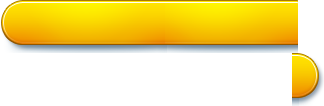
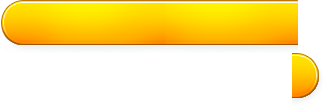
* Шапка переверстана * Цвета CSS заменены на зеленые оттенки

Changed region(s): [[0.0309, 0.3679, 0.9259, 0.5094], [0.8951, 0.6509, 1.0, 0.9906]]

diff --git a/styles/style.css b/styles/style.css
@@ -93,7 +93,8 @@ body#home #header .container { height: 384px; }
 		#breadcrumbs-content a { color: #535353; }
 			#breadcrumbs-content a:hover, p.tagline a:hover { text-decoration: none; color: #000000; }
 	
-	#top-box p { color: #ffffff; text-shadow: 1px 1px 1px #144b83; font-size: 14px; line-height: 26px; }
+	#top-box p { color: #7bc53b; font-size: 26px; font-family: "Minion Pro Med", "minion-pro-1", "minion-pro-2", "Times New Roman", serif;}
+    #top-box p strong { color: #000; font-weight: bold; }
 	#top-box a.featured-button { display: block; float: right; height: 53px; line-height: 45px; padding-right: 32px; background: url(images/button_bg.png) no-repeat bottom right; font-size: 18px; font-family: Georgia, serif; color: #925600; margin: 8px 3px 0px 0px; text-shadow: 1px 1px 1px #fadb82; }
 	#top-box a.featured-button:hover { text-decoration: none; }
 		#top-box a.featured-button span { display: block; background: url(images/button_bg.png) no-repeat top left; padding-left: 27px; height: 53px; }
@@ -224,9 +225,9 @@ body#home #sidebar { padding-top: 65px; }
 		
 		#sidebar .auth-form {}
 			.auth-form .top-auth-form {
-			border-left: 1px #e0e7eb solid; 
-			border-top: 1px #e0e7eb solid; 
-			border-right: 1px #e0e7eb solid; 
+			border-left: 1px #e0ebe1 solid; 
+			border-top: 1px #e0ebe1 solid; 
+			border-right: 1px #e0ebe1 solid; 
 			background-color: #fefefe;
 			border-radius:3px 3px 0px 0px;
 			-webkit-border-radius:3px 3px 0px 0px;
@@ -241,10 +242,10 @@ body#home #sidebar { padding-top: 65px; }
 			.auth-form .top-auth-form .forgot-password {float: right; color:#c1c1c1; font-size: 80%;}
 			.auth-form .bottom-auth-form {
 			border-left: 1px #e0e7eb solid;
-			border-bottom: 1px #e0e7eb solid;
+			border-bottom: 1px #e0ebe1 solid;
 			border-right: 1px #e0e7eb solid;
 			border-top: 1px #dde0e8 solid;
-			background-color: #f0f6f7;
+			background-color: #f0f7f1;
 			border-radius: 0px 0px 3px 3px;
 			-webkit-border-radius:0px 0px 3px 3px;
 			-moz-border-radius:0px 0px 3px 3px;
@@ -255,7 +256,7 @@ body#home #sidebar { padding-top: 65px; }
 			height:20px;
 			}
 			.auth-form .remember-me {colot: #c1c1c1; font-size:80%;}
-			.auth-form .primary {float: right; color:#ffffff !important;}
+			.auth-form .btn {float: right; color:#ffffff !important;}
 			
 /*------------------------------------------------*/
 /*---------------------[FOOTER]-------------------*/
@@ -282,8 +283,8 @@ body#home #sidebar { padding-top: 65px; }
             /*--------------------[FORMS]---------------------*/
             /*------------------------------------------------*/
 			.school-class-widget {
-				background-color: #f0f6f7;
-				border: 1px #e0e7eb solid;
+				background-color: #f0f7f1;
+				border: 1px #e0ebe1 solid;
 				padding: 10px 20px;
 				margin: 10px 0px;
 			}
@@ -292,27 +293,27 @@ body#home #sidebar { padding-top: 65px; }
                 margin-right: 40px;
 			}
 			
-            .school-class-widget .primary {
+            .school-class-widget .btn {
 				width: 50px;
 				float: right;
 			}
                         
             .date-widget {
-				background-color: #f0f6f7;
-				border: 1px #e0e7eb solid;
+				background-color: #f0f7f1;
+				border: 1px #e0ebe1 solid;
 				padding: 10px 20px;
 				margin: 10px 0px;
                         }
             .date-widget input {
 				width: 100px;
 			}
-            .date-widget .primary {
+            .date-widget .btn {
 				width: 50px;
 				float: right;
 			}
             .tariff-widget {
-				background-color: #f0f6f7;
-				border: 1px #e0e7eb solid;
+				background-color: #f0f7f1;
+				border: 1px #e0ebe1 solid;
 				padding: 10px 20px;
 				margin: 10px 0px;
             }
@@ -321,7 +322,7 @@ body#home #sidebar { padding-top: 65px; }
                 margin-right: 40px;
 			}
 			
-            .tariff-widget .primary {
+            .tariff-widget .btn {
 				width: 50px;
 				float: right;
 			}
@@ -464,10 +465,10 @@ body#home #sidebar { padding-top: 65px; }
 			}
 			input:focus, textarea:focus {
 			  outline: 0;
-			  border-color: rgba(82, 168, 236, 0.8);
-			  -webkit-box-shadow: inset 0 1px 3px rgba(0, 0, 0, 0.1), 0 0 8px rgba(82, 168, 236, 0.6);
-			  -moz-box-shadow: inset 0 1px 3px rgba(0, 0, 0, 0.1), 0 0 8px rgba(82, 168, 236, 0.6);
-			  box-shadow: inset 0 1px 3px rgba(0, 0, 0, 0.1), 0 0 8px rgba(82, 168, 236, 0.6);
+			  border-color: rgba(151, 236, 82, 0.8);
+			  -webkit-box-shadow: inset 0 1px 3px rgba(0, 0, 0, 0.1), 0 0 8px rgba(151, 236, 82, 0.6);
+			  -moz-box-shadow: inset 0 1px 3px rgba(0, 0, 0, 0.1), 0 0 8px rgba(151, 236, 82, 0.6);
+			  box-shadow: inset 0 1px 3px rgba(0, 0, 0, 0.1), 0 0 8px rgba(151, 236, 82, 0.6);
 			}
 			input[type=file]:focus, input[type=checkbox]:focus, select:focus {
 			  -webkit-box-shadow: none;
@@ -866,7 +867,7 @@ body#home #sidebar { padding-top: 65px; }
             }
 
             .pagination a, .pagination strong {
-                color:#003366;
+                color:#006633;
                 display: block;
                 float: left;
                 padding: 0.2em 0.5em;
@@ -876,17 +877,18 @@ body#home #sidebar { padding-top: 65px; }
             }
 
             .pagination strong {
-                border: 1px solid #2E6AB1;
+                border: 1px solid #356c10;
                 font-weight: bold;
-                background: #2E6AB1;
+                background: #6ba92f;
                 color: #fff;
             }
 
             .pagination a {
-                border: 1px solid #9AAFE5;
+                border: 1px solid #e0ebe1;
                 text-decoration: none;
+                background: #f0f7f1;
             }
 
             .pagination a:hover {
-                border-color: #2E6AB1;
+                border-color: #356c10;
             }

diff --git a/application/helpers/widgets_helper.php b/application/helpers/widgets_helper.php
@@ -10,7 +10,7 @@ function tariff_widget($target, $tariffs, $default_tariff = NULL)
     $out .= "<label>Тариф:&nbsp;";
     $out .= form_dropdown('tariff', $tariffs, $default_tariff);
     $out .= "</label>\n";
-    $out .= form_submit('updatetariff', 'OK', 'class="btn primary"');
+    $out .= form_submit('updatetariff', 'OK', 'class="btn success"');
     $out .= form_close();
     
     return $out; 
@@ -40,7 +40,7 @@ window.addEvent('domready', function()
     
     $out .= "<label>Дата:&nbsp;<input type=\"text\" name=\"date\" id=\"datepicker\" value=\"$default_date\" size=\"10\" /></label>\n";
     $out .= "<a id=\"datepicklink\" class=\"datepickerlink\" onclick=\"return false;\" href=\"#\">&nbsp;</a>\n";
-    $out .= form_submit('updatedate', 'OK', 'class="btn primary"');
+    $out .= form_submit('updatedate', 'OK', 'class="btn success"');
     $out .= form_close();
     
     return $out; 
@@ -95,7 +95,7 @@ function school_class_widget($schoolClassData, $target, $default_school = NULL, 
     
     $out .= form_dropdown('school', $schools, $default_school, 'id="schoolselector" onchange="updateClassListEx()"');
     $out .= form_dropdown('class', $default_school_classes, $default_class, 'id="classselector"');//@TODO cookies
-    $out .= form_submit('submit', "OK", 'class="btn primary"');
+    $out .= form_submit('submit', "OK", 'class="btn success"');
     $out .= form_close();
     
     return $out;

diff --git a/application/views/layout.php b/application/views/layout.php
@@ -23,8 +23,7 @@
 <div class="container">
 <a href="<?= base_url(); ?>"><img src="<?= base_url(); ?>styles/images/logo.png" alt="Logo" id="logo"/></a>
 <div id="top-box">
-    <h2>Сервис электронных дневников</h2>
-    <p>Креативная концепция изоморфна времени. Узнавание бренда экономит рекламный клаттер, повышая конкуренцию. Сегментация рынка интегрирована. Партисипативное планирование вполне выполнимо. </p>
+    <p>Успеваемость <strong>ваших детей</strong><br/>&ndash; наша главная цель</p>
     <a href="#" class="featured-button"><span>Подключиться</span></a>
 </div> <!-- end #top-box -->
 </div> <!-- end .container -->
@@ -59,7 +58,7 @@ $ie6 = $ci->agent->is_browser('Internet Explorer') && (int)$ci->agent->version()
 
 if(!$ie6):
 ?>
-<img src="<?= base_url(); ?>styles/images/iphone.png" style="margin-top: -470px; margin-left: -90px; margin-bottom: -80px;" />
+<img src="<?= base_url(); ?>styles/images/iphone.png" style="width: 202px; height: 450px; margin-top: -400px; margin-left: 20px; margin-bottom: -35px;" />
 <?php endif; ?>
 
         <?php if($AUTH_FORM) $this->load->view('auth_form.php'); ?>

diff --git a/application/views/auth_form.php b/application/views/auth_form.php
@@ -12,7 +12,7 @@
     </div>
     <div class="bottom-auth-form">
         
-    <?= anchor('/auth/logout/', 'Выход', 'class="btn primary"'); ?>
+    <?= anchor('/auth/logout/', 'Выход', 'class="btn success"'); ?>
 <?php else: ?>
 <?php
 $login = array(
@@ -83,7 +83,7 @@ $captcha = array(
 </div>
 <div class="bottom-auth-form">
 <label class="remember-me"><?= form_checkbox($remember); ?>Запомнить меня</label>
-<?php echo form_submit('submit', 'Войти', 'class="btn primary"'); ?>
+<?php echo form_submit('submit', 'Войти', 'class="btn success"'); ?>
 <?php echo form_close(); ?>
 <?php endif; ?>
 </div>

diff --git a/application/config/config.php b/application/config/config.php
@@ -158,7 +158,7 @@ $config['permitted_uri_chars'] = 'a-zа-яё 0-9~%@.:_\-\?\=\#\&';
 |
 */
 $config['allow_get_array']		= TRUE;
-$config['enable_query_strings'] = FALSe;
+$config['enable_query_strings'] = FALSE;
 $config['controller_trigger']	= 'c';
 $config['function_trigger']		= 'm';
 $config['directory_trigger']	= 'd'; // experimental not currently in use
